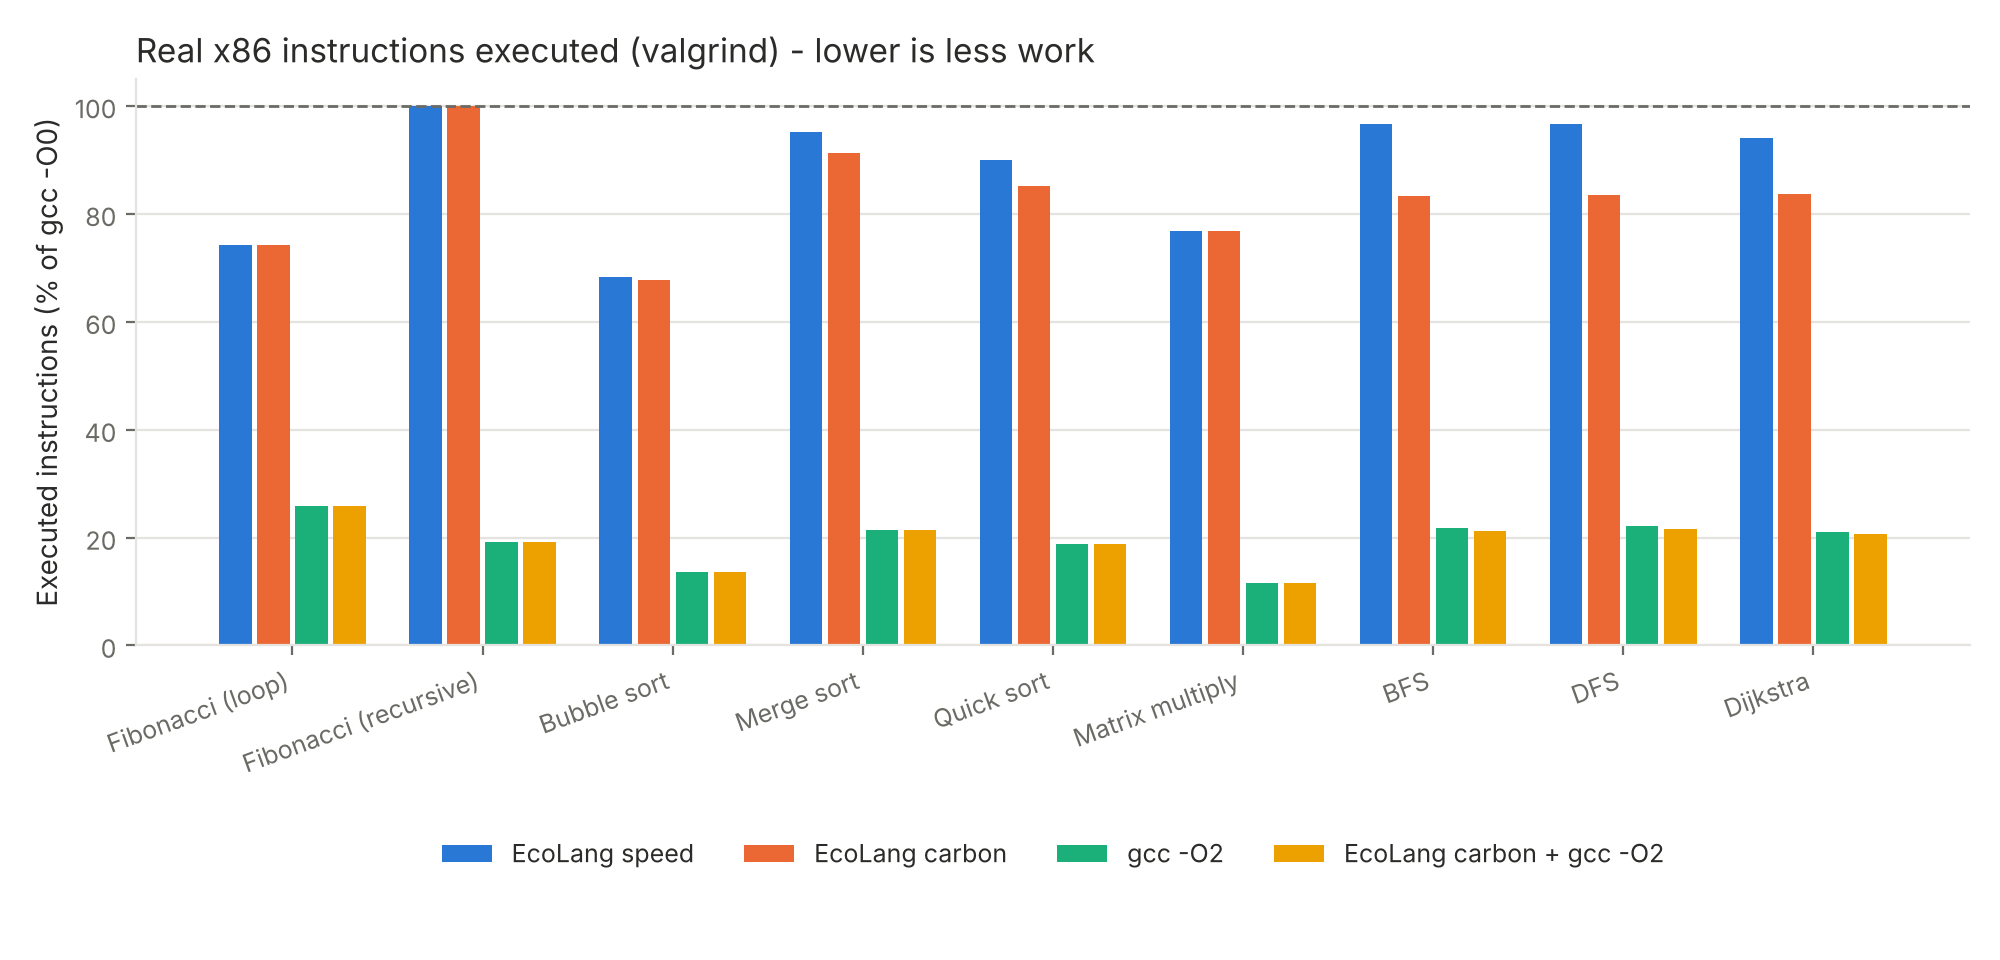
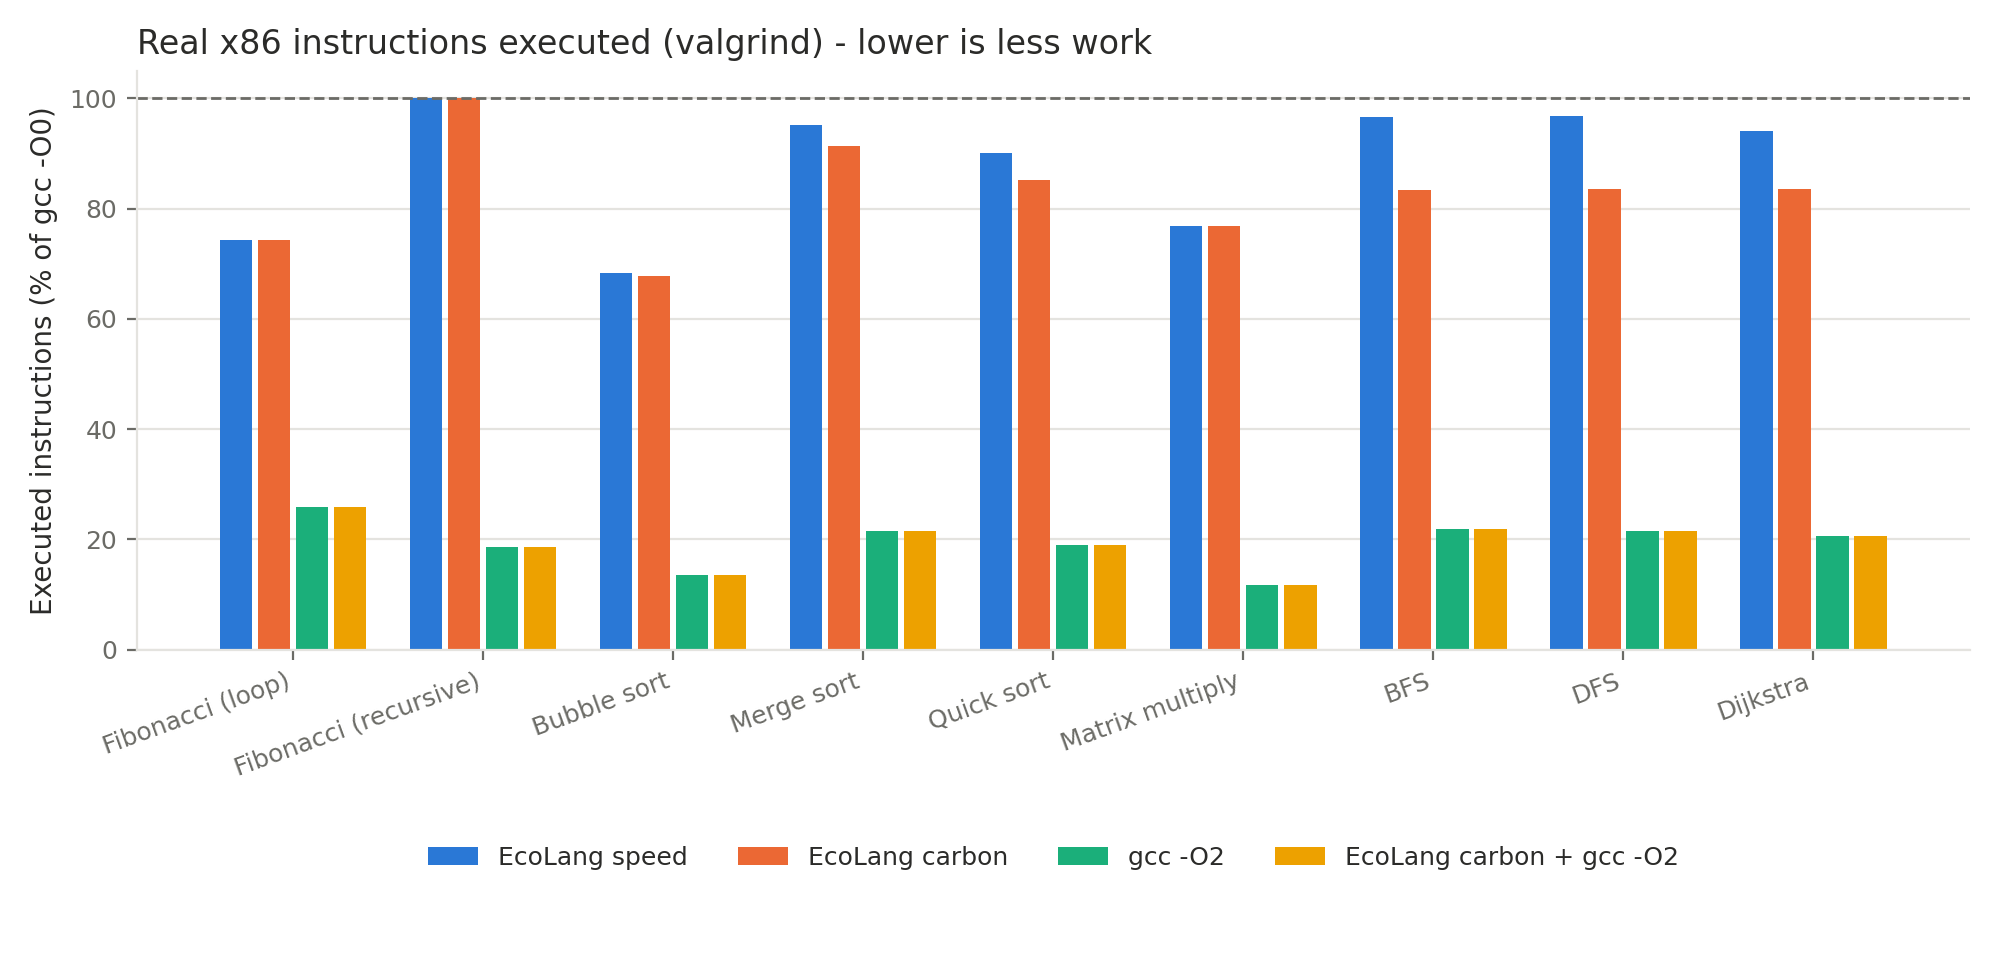
gcc comparison measured on my laptop, honest README

diff --git a/README.md b/README.md
@@ -258,17 +258,18 @@ python3 budget_sweep.py
 
 Real x86 instructions, carbon goal vs speed goal (negative = fewer):
 
-| Benchmark | EcoLang carbon vs EcoLang speed | EcoLang carbon + gcc -O2 vs gcc -O2 alone | model's estimate (energy) |
-|---|---|---|---|
-| BFS | **−13.8%** | −2.3% | −14.7% |
-| DFS | **−13.6%** | −2.3% | −14.6% |
-| Dijkstra | **−11.1%** | −1.9% | −11.8% |
-| Quick sort | −5.4% | 0.0% | −7.5% |
-| Merge sort | −4.0% | 0.0% | −4.6% |
+| Benchmark | EcoLang carbon vs EcoLang speed | model's estimate (energy) |
+|---|---|---|
+| BFS | **−13.8%** | −14.7% |
+| DFS | **−13.6%** | −14.6% |
+| Dijkstra | **−11.1%** | −11.8% |
+| Quick sort | −5.4% | −7.5% |
+| Merge sort | −4.0% | −4.6% |
 
-- The real instruction counts agree closely with EcoLang's energy model, so the "speed build does more work" result is not just a property of the model.
+- The real instruction counts agree closely with EcoLang's energy model, so the "speed build does more work" result is not just a property of the model. (Instruction counts are the same on every machine for the same gcc version.)
 - gcc -O2 is much faster than EcoLang alone (registers, inlining, 30 years of engineering): EcoLang does not try to beat it on speed. gcc has no energy goal, and it always turns division by a constant into a longer multiply sequence.
-- Running EcoLang's carbon goal **before** gcc -O2 never adds instructions and saves up to 2.3% on the graph benchmarks; EcoLang's speed goal before gcc -O2 adds instructions.
+- Running EcoLang's carbon goal before gcc -O2 gives about the same instruction count as gcc -O2 alone (within ±2.5%, depending on the gcc version: −2.3% with one gcc, +0.5% with another).
+- Measured run times (Table B in `summary.txt`) are noisy for programs this short (microseconds), especially under WSL; the instruction counts are the reliable measure.
 
 ```bash
 sudo apt install valgrind      # once
